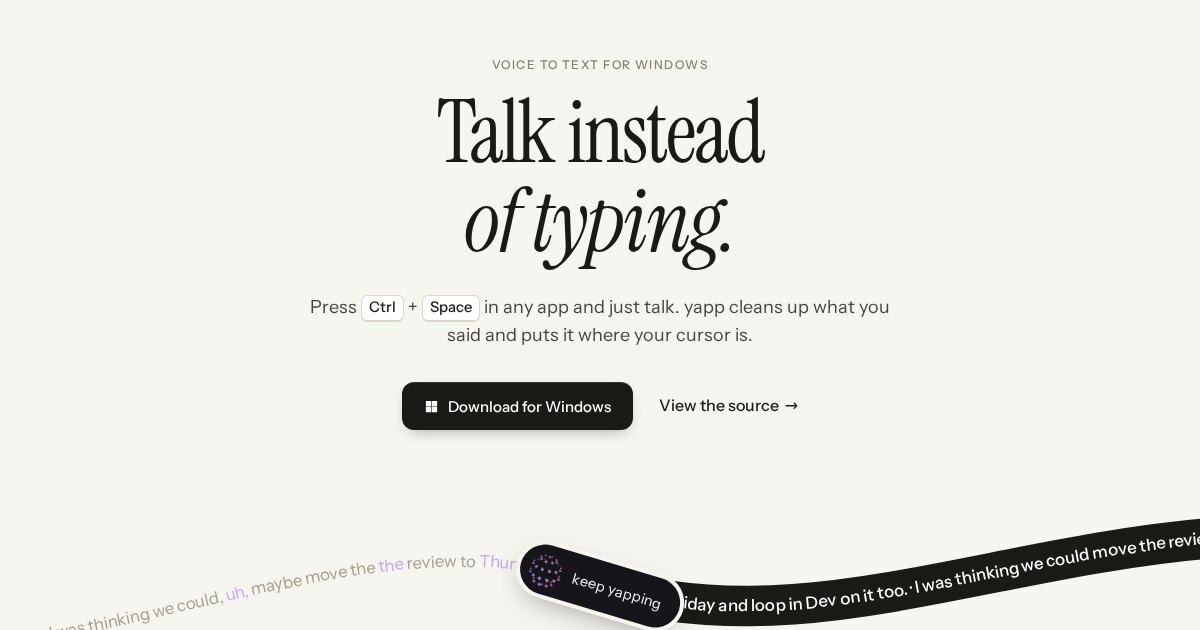
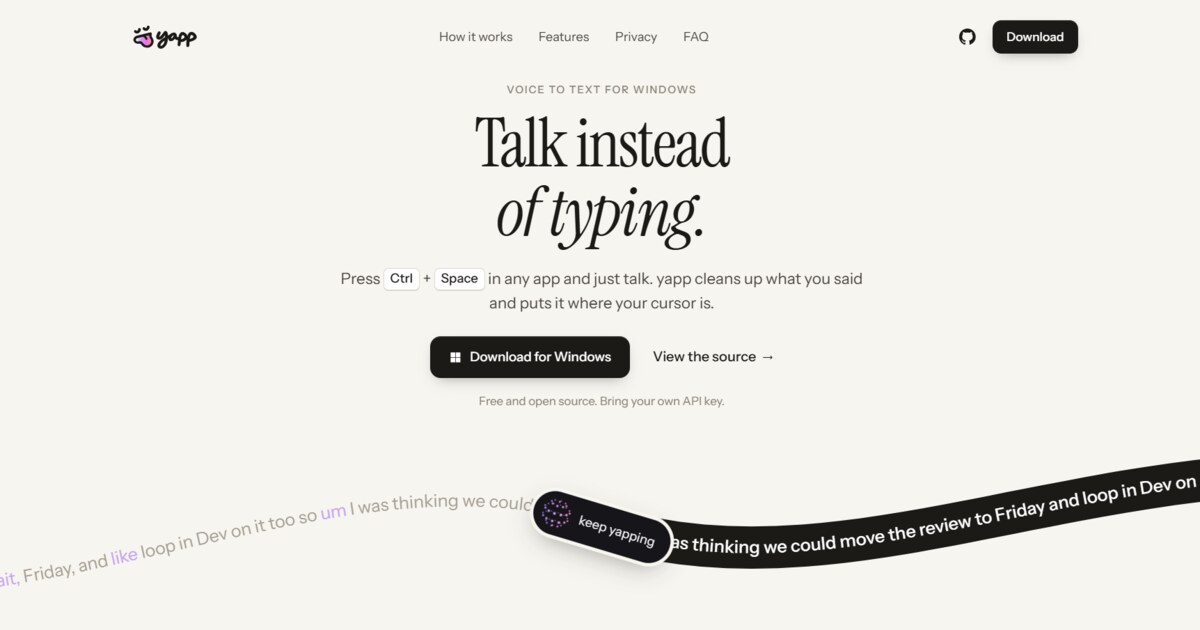
Use the hero screenshot as the link preview image
Claude-Session: https://claude.ai/code/session_019vC37DhXNxsg97RdFXjU4q

diff --git a/index.html b/index.html
@@ -10,6 +10,10 @@
   <meta property="og:title" content="yapp · Talk instead of typing" />
   <meta property="og:description" content="Free, open-source voice-to-text for Windows. Press Ctrl+Space, talk, and clean text lands at your cursor." />
   <meta property="og:image" content="assets/og.jpg" />
+  <meta property="og:image:width" content="1200" />
+  <meta property="og:image:height" content="630" />
+  <meta property="og:image:alt" content="yapp: Talk instead of typing. Voice to text for Windows." />
+  <meta name="twitter:image" content="assets/og.jpg" />
   <meta name="twitter:card" content="summary_large_image" />
   <link rel="icon" href="assets/favicon.svg" type="image/svg+xml" />
   <link rel="icon" href="assets/favicon-32.png" sizes="32x32" type="image/png" />
